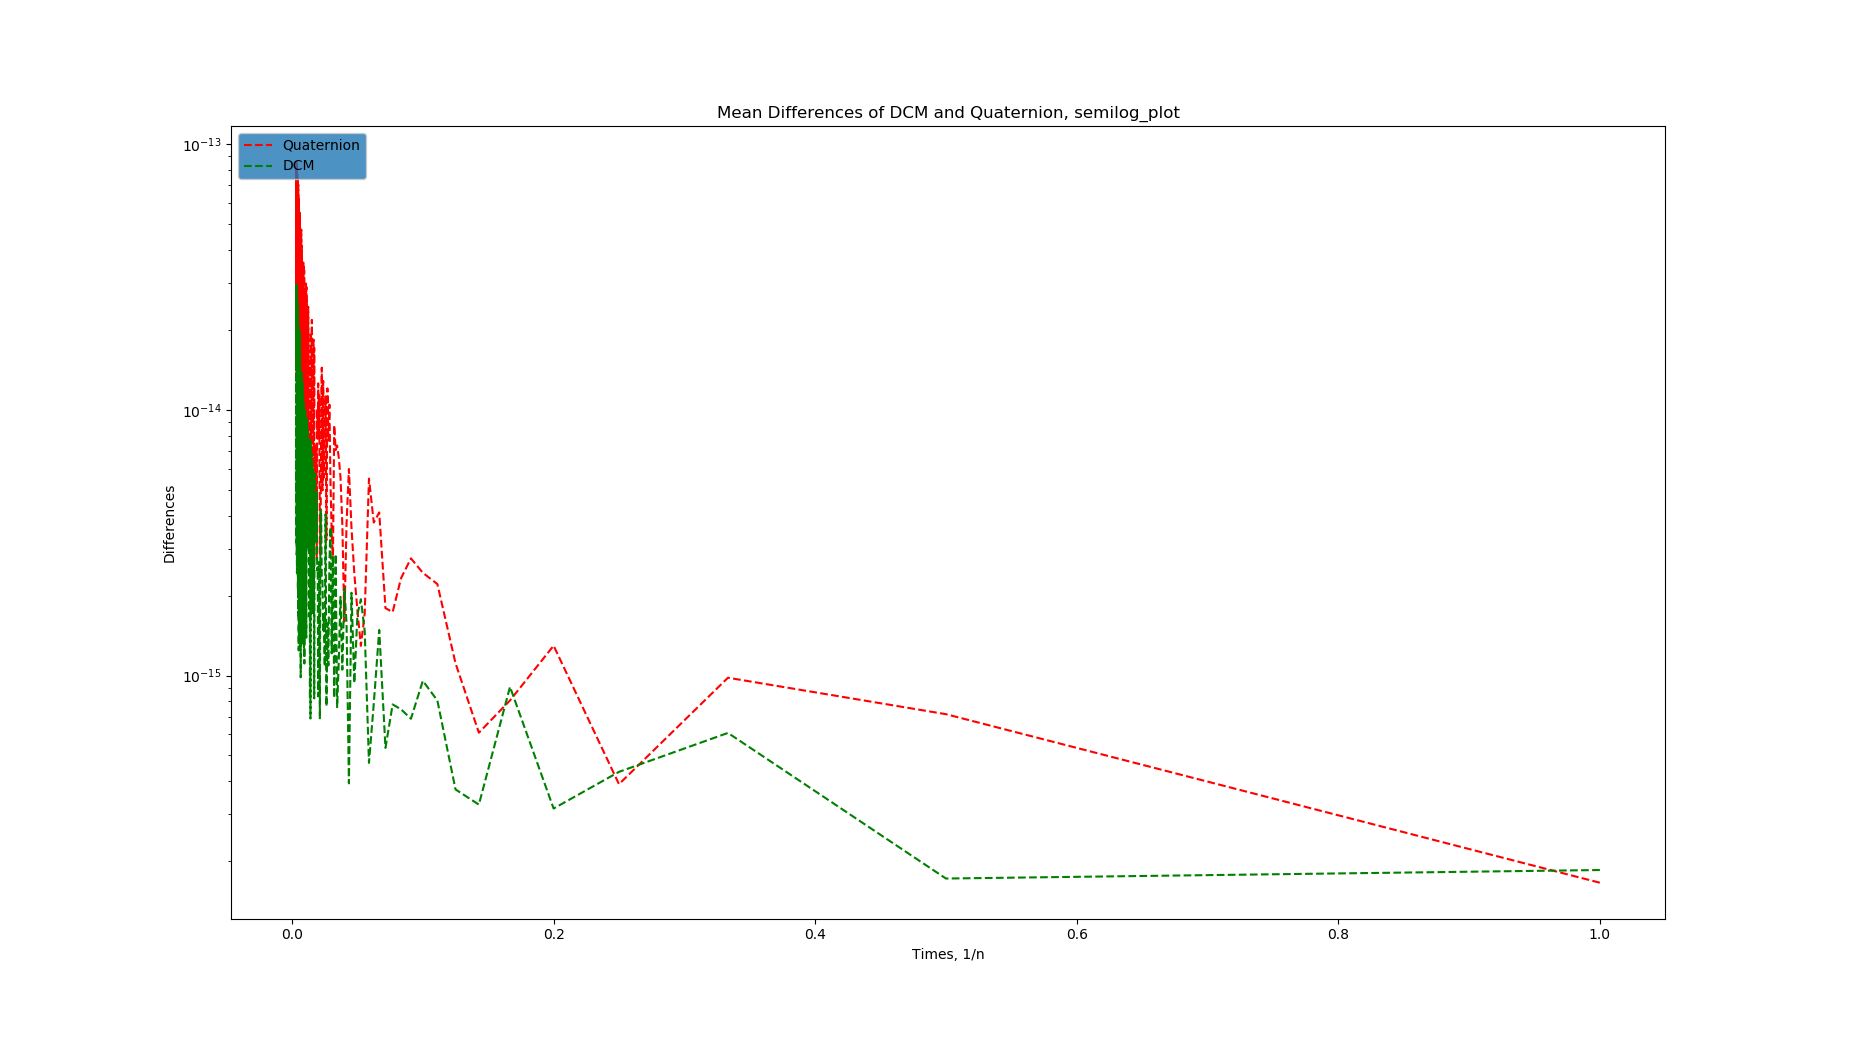
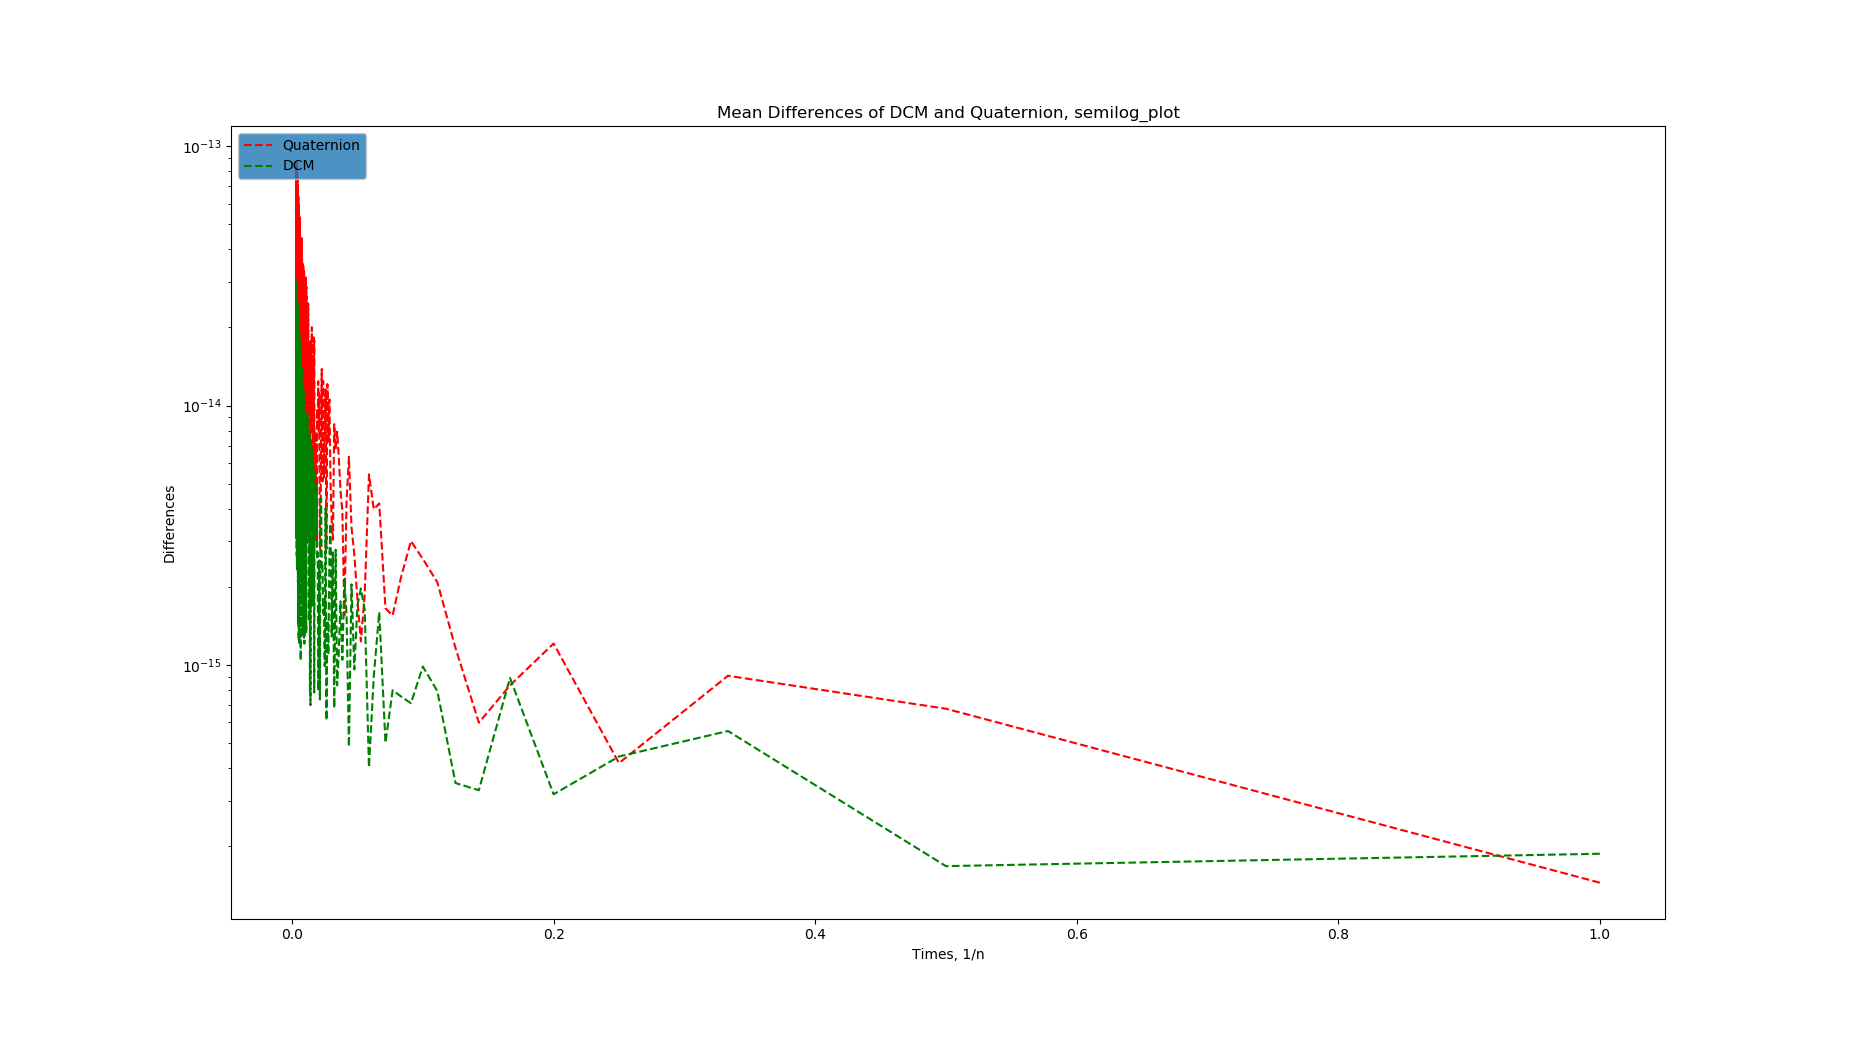
edit on rotator precision

diff --git a/functions.py b/functions.py
@@ -406,18 +406,23 @@ def DCM_Quaternion_rotator_check2(N, R, x_theta, y_theta, z_theta):
             m1 = computeDCM(x_theta / steps, [1, 0, 0])
             m2 = computeDCM(y_theta / steps, [0, 1, 0])
             m3 = computeDCM(z_theta / steps, [0, 0, 1])
+            m4 = computeDCM(-y_theta / steps, [0, 1, 0])
             q1 = Quaternion(math.cos(x_theta / (2 * steps)), math.sin(x_theta / (2 * steps)), 0, 0).norm_q()
             q2 = Quaternion(math.cos(y_theta / (2 * steps)), 0, math.sin(y_theta / (2 * steps)), 0).norm_q()
             q3 = Quaternion(math.cos(z_theta / (2 * steps)), 0, 0, math.sin(z_theta / (2 * steps))).norm_q()
+            q4 = Quaternion(math.cos(-y_theta / (2 * steps)), 0, math.sin(-y_theta / (2 * steps)), 0).norm_q()
             for i in range(0, steps):
-                DCM = m1 @ DCM
+                DCM = DCM @ m1
                 Q = (q1 * Q).norm_q()
             for j in range(0, steps):
-                DCM = m2 @ DCM
+                DCM = DCM @ m2
                 Q = (q2 * Q).norm_q()
             for k in range(0, steps):
-                DCM = m3 @ DCM
+                DCM = DCM @ m3
                 Q = (q3 * Q).norm_q()
+            for k in range(0, steps):
+                DCM = DCM @ m4
+                Q = (q4 * Q).norm_q()
             Q = Q.toDCM();
             diff_chk_q += DCM_check(Q, DCM_zero)
             diff_chk_dcm += DCM_check(DCM, DCM_zero)
@@ -501,18 +506,23 @@ def DCM_Quaternion_rotator_check3(N, R, x_theta, y_theta, z_theta):
             m1 = computeDCM(x_theta / steps, [1, 0, 0])
             m2 = computeDCM(y_theta / steps, [0, 1, 0])
             m3 = computeDCM(z_theta / steps, [0, 0, 1])
+            m4 = computeDCM(-y_theta / steps, [0, 1, 0])
             q1 = Quaternion(math.cos(x_theta / (2 * steps)), math.sin(x_theta / (2 * steps)), 0, 0).norm_q()
             q2 = Quaternion(math.cos(y_theta / (2 * steps)), 0, math.sin(y_theta / (2 * steps)), 0).norm_q()
             q3 = Quaternion(math.cos(z_theta / (2 * steps)), 0, 0, math.sin(z_theta / (2 * steps))).norm_q()
+            q4 = Quaternion(math.cos(-y_theta / (2 * steps)), 0, math.sin(-y_theta / (2 * steps)), 0).norm_q()
             for i in range(0, steps):
-                DCM = m1 @ DCM
+                DCM = DCM @ m1
                 Q = (q1 * Q).norm_q()
             for j in range(0, steps):
-                DCM = m2 @ DCM
+                DCM = DCM @ m2
                 Q = (q2 * Q).norm_q()
             for k in range(0, steps):
-                DCM = m3 @ DCM
+                DCM = DCM @ m3
                 Q = (q3 * Q).norm_q()
+            for q in range(0, steps):
+                DCM = DCM @ m4
+                Q = (q4 * Q).norm_q()
             diff_chk_q += extracAngleQuaternion(Q, x, y, z)
             diff_chk_dcm += extracAngleDCM(DCM, x, y, z)
         X1.append(1.0 / n)

diff --git a/Quaternion_test.py b/Quaternion_test.py
@@ -231,7 +231,7 @@ plt.show()
 fig.set_size_inches(18.5, 10.5)
 fig.savefig('DCM_Quaternion_ed.png', dpi = 100)
 
-(X1, X2, DIFF_CHECK_Q, DIFF_CHECK_DCM) = f.DCM_Quaternion_rotator_check3(300, 100, np.pi, np.pi, np.pi)
+(X1, X2, DIFF_CHECK_Q, DIFF_CHECK_DCM) = f.DCM_Quaternion_rotator_check3(300, 100, np.pi / 2, np.pi / 2, np.pi / 2)
 
 fig, ax = plt.subplots()
 ax.plot(X2, DIFF_CHECK_Q, 'o', label = 'Quaternion', color = 'red')
